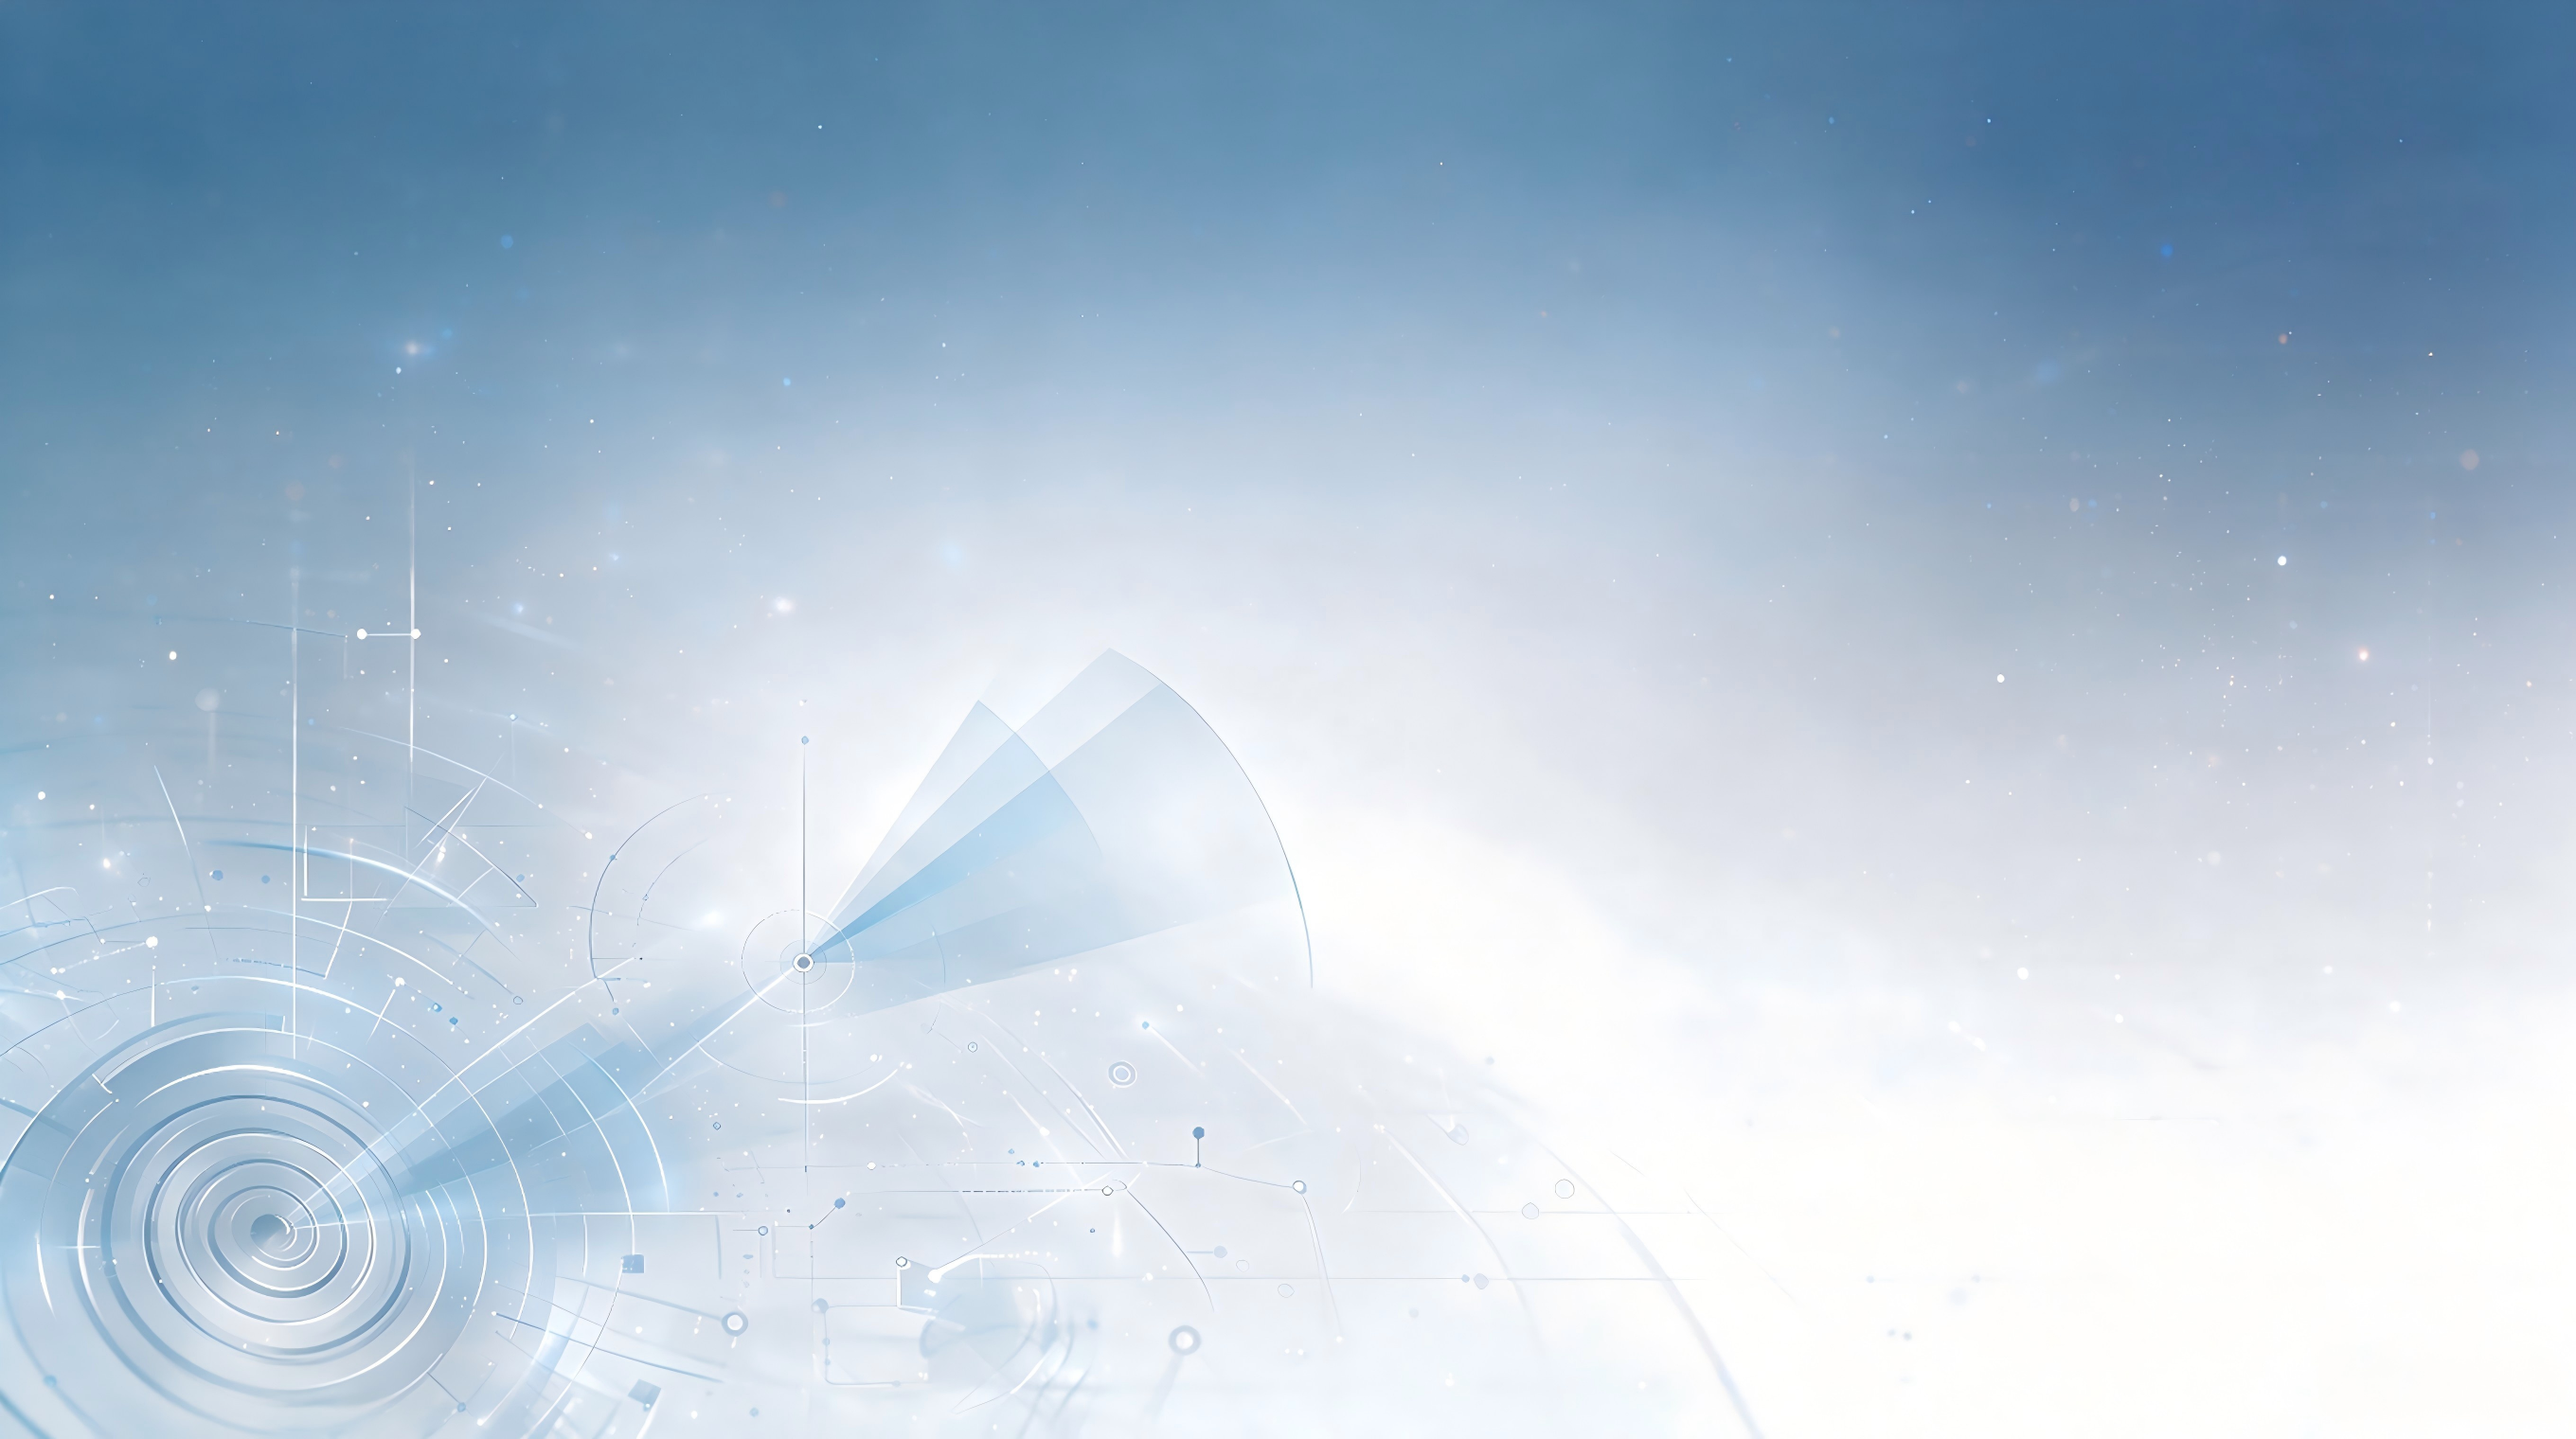
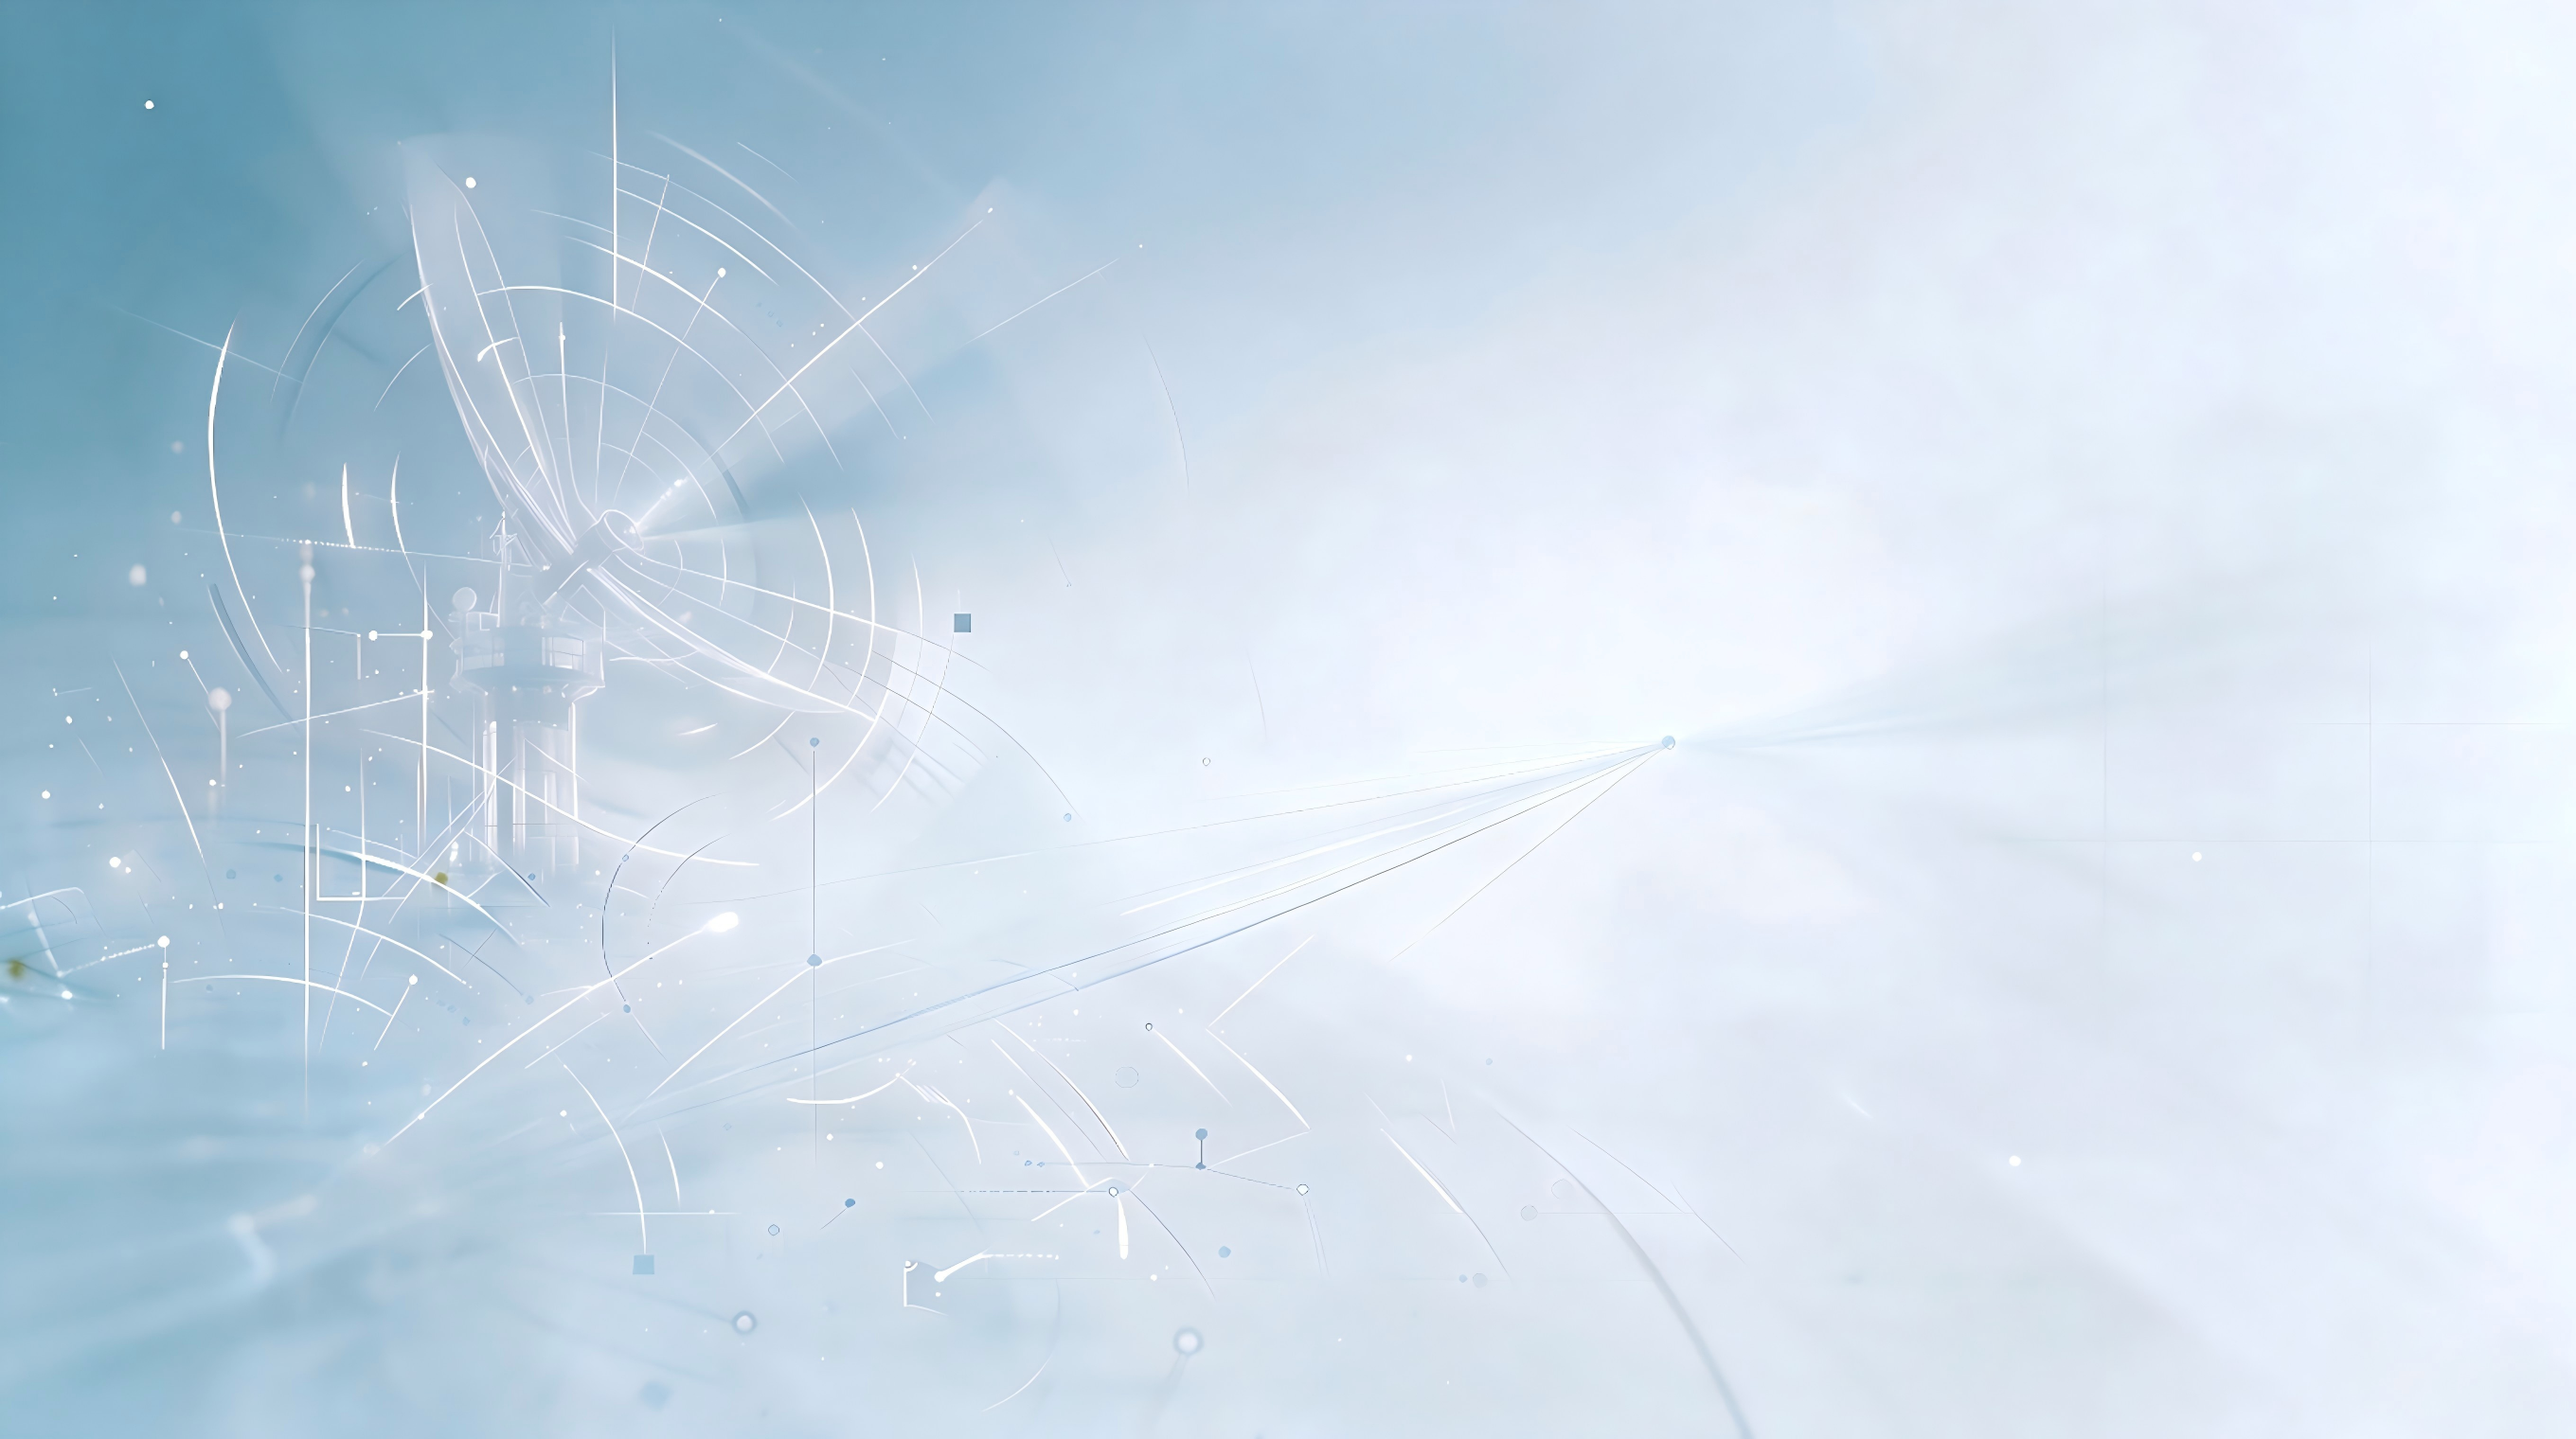
改登录界面

diff --git a/spug-3.0/spug_web/src/pages/login/login.module.css b/spug-3.0/spug_web/src/pages/login/login.module.css
@@ -19,9 +19,9 @@
 }
 
 .loginWrapper {
-    width: 42%;
-    min-width: 360px;
-    max-width: 420px;
+    width: 46.2%;
+    min-width: 396px;
+    max-width: 462px;
 }
 
 /* 玻璃卡片：高透明磨砂 + 白色高光描边 + 顶部亮边 + 内发光 */
